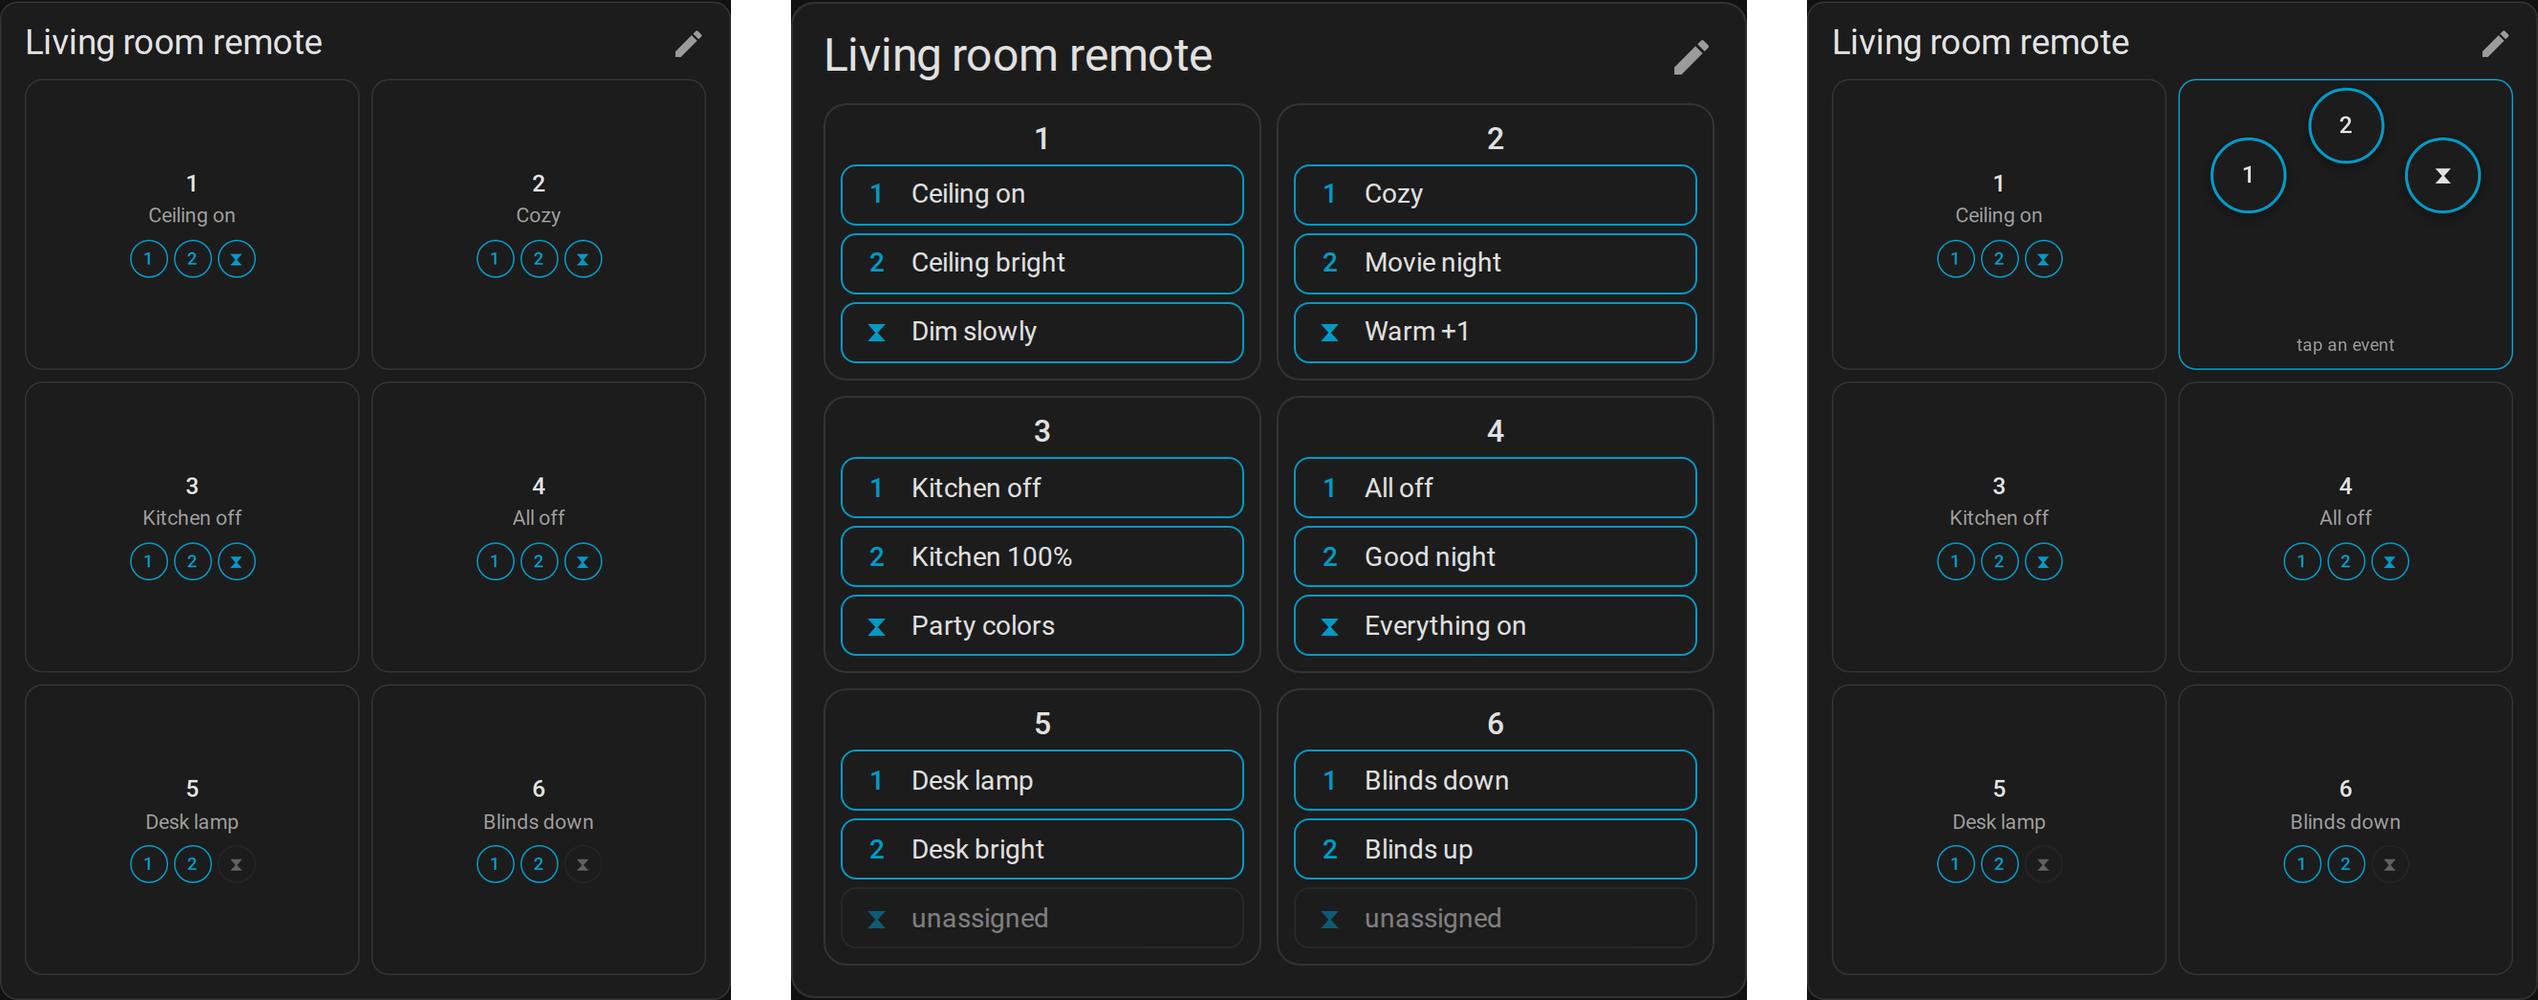
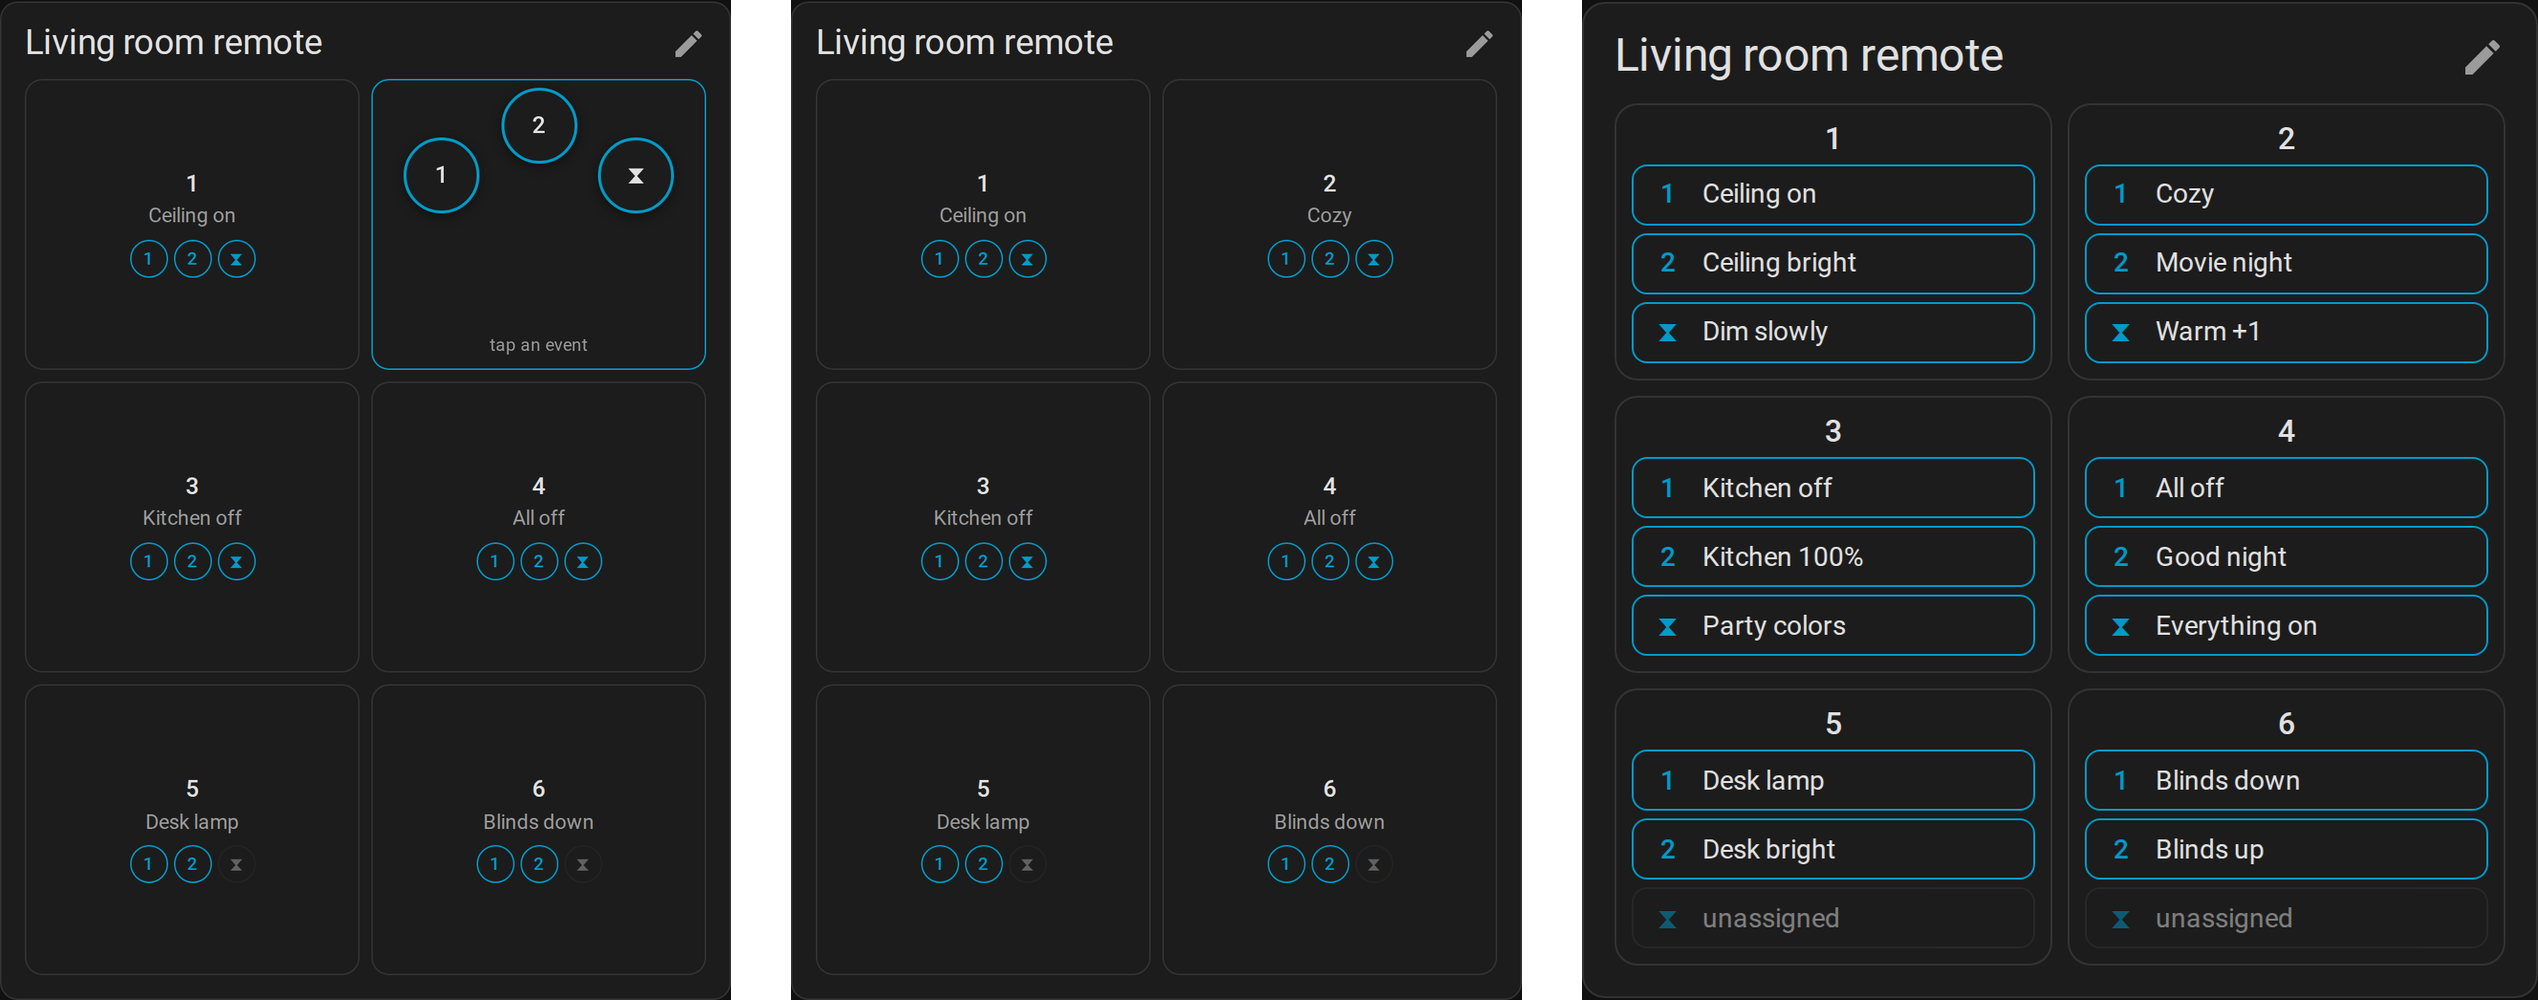
docs: apply README review corrections, queue follow-ups in todo (#1)
* docs: apply README review corrections, queue follow-ups in todo

Reorder the modes screenshot to match the table (assisted first), reword
the canvas, import, scene-shell and tap-a-pad blurbs, and link Getting
started after Install.

Claude-Session: https://claude.ai/code/session_012TiJXhGbjNVrHW1L7ovfY5

* docs: fix joypad-style placement, reword tap-a-pad note

Claude-Session: https://claude.ai/code/session_012TiJXhGbjNVrHW1L7ovfY5

* docs: move joypad-style after nudge arrows

Claude-Session: https://claude.ai/code/session_012TiJXhGbjNVrHW1L7ovfY5

* ci(cla): skip the CLA check on the repo owner's own PRs

Claude-Session: https://claude.ai/code/session_012TiJXhGbjNVrHW1L7ovfY5

---------

diff --git a/README.md b/README.md
@@ -68,8 +68,8 @@ device, where every button shows what it does and lets you change it.
 
   > Odd-shaped remote?
   Switch the card to the **canvas** layout: free-drag, resizable tiles on
-  a design surface, with nudge arrows and z-order, for a round dial or a
-  remote with an off-grid button.
+  a design surface, with nudge arrows (joypad-style) and z-order — perfect
+  for a round dial or a remote with an off-grid button.
 
 - **Three ways to use it** (per card, in the card editor):
 
@@ -80,11 +80,12 @@ device, where every button shows what it does and lets you change it.
   | **All visible** | every event of every button as a chip | tap a chip |
 
   <!-- screenshots: the three modes side by side -->
-  ![Replica / all visible / assisted](docs/img/modes.png)
+  ![Assisted / replica / all visible](docs/img/modes.png)
 
-- **Keep what you already have.** Existing automations for the remote are
-  **linked**: they stay native and enabled, the card shows them by name
-  with their on/off state, and one tap opens them in HA's automation
+- **Keep what you already have.** Your existing automations for the remote
+  are detected and **linked**: import them to show them natively on the
+  card and manage the remote's actions from one place. They stay native,
+  the card shows them by name with their on/off state, and one tap opens them in HA's automation
   editor (scenes and scripts they use get their own edit buttons). Prefer
   the card as the single place? Choose **absorb** instead: the actions
   move into the card and the original is disabled, never deleted.
@@ -108,7 +109,8 @@ device, where every button shows what it does and lets you change it.
   state becomes a scene bound to that button. *Re-snapshot* later updates
   it in place. Prefer HA's editor? *Automation for this button* or
   *Automation for the whole remote* creates the shell with the right
-  triggers and opens it there.
+  triggers already in place, and you fill in the actions — skip the
+  boring part where you start with an empty page.
 
 - **Real automations when you want them.** Tick *Create as automation* on
   any button: it becomes a native HA automation (traces, the HA editor,
@@ -171,6 +173,8 @@ The card ships with the integration; no separate frontend install. (YAML
 dashboards: add the resource
 `/hacsfiles/remote_mapper/remote-mapper-card.js` as a module.)
 
+Then head to [Getting started](docs/guides/getting-started.md).
+
 ## Guides
 
 Step-by-step, each with a short screen recording:
@@ -223,7 +227,9 @@ snapshot scenes, and removes the remote. Deleting the integration from
 
 ## Good to know
 
-- **Tapping a pad on the dashboard runs the action** — handy for testing
+- **Tapping a pad on the dashboard runs the action** — I do this very
+  often, mind-palace style. The remote's card is on the dashboard related
+  to the area where the physical remote is. It's also handy for testing
   from the couch. It is not the physical button event; automations you
   materialized don't fire from it.
 - Scenes and automations the integration created are the only ones it will

diff --git a/ai/todo.md b/ai/todo.md
@@ -5,3 +5,7 @@ creating a new automation instead of keeping the linked one~~ (fixed 2026-09-23)
 3. ~~No HA prompt asking to clean browser cache (after installing this integration and after updates)~~ (fixed 2026-09-23)
 4. ~~A new option to hide unused slots for actions in a button~~ (fixed 2026-09-24)
 5. Possibility to move actions between slots in a button and between buttons
+6. Scenes as first-class citizens: same handling as for automations
+(import, hand back to HA)
+7. A way to wipe remembered default choices (e.g. delete ask / always / never)
+and show the onboarding tips again
